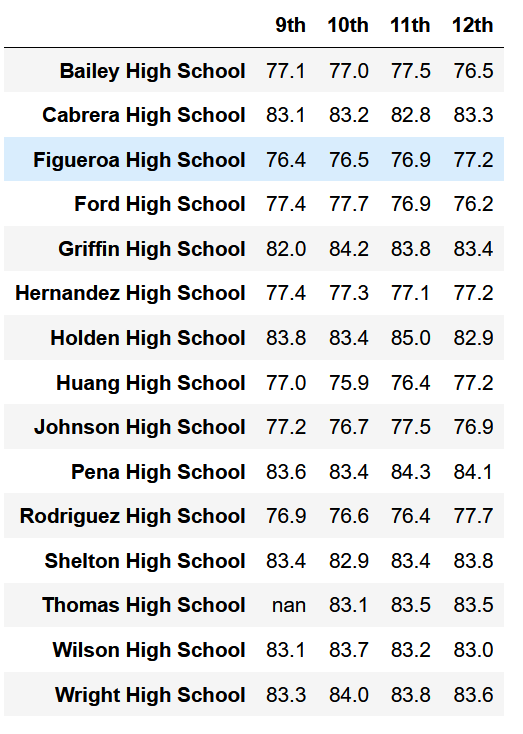
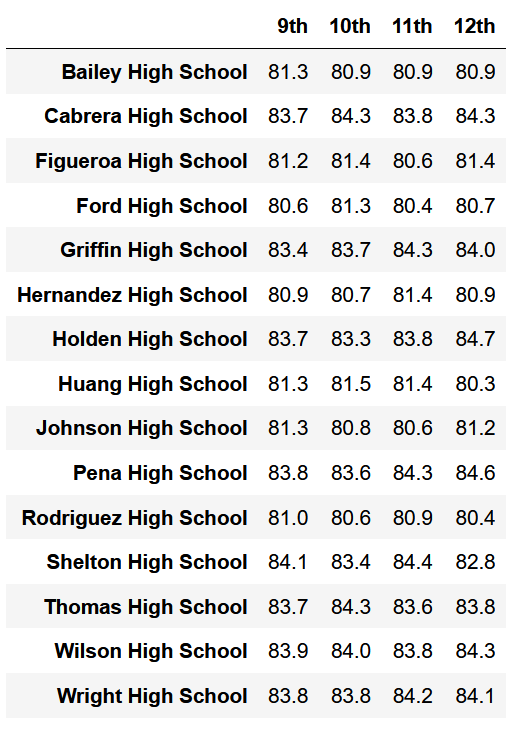
Updated Readme ready to submit

diff --git a/README.md b/README.md
@@ -1,79 +1,97 @@
 # School District Analysis
 
 ## Project Overview
-The purpose of this project was to perform a new analyzis of the School District and review the overall results to see the impact of removing data from a specific grade for a specific high school.  The new analysis data was kept intact except that the 9th grade reading and math scores at the Thomas High School were marked with NaN so they are not taken into account on the new analysis.
+The purpose of this project was to perform a new analysis of the School District dataset and compare the overall results to observe the potential impact of removing data.  The new analysis data was kept intact except that the 9th grade reading and math scores at the Thomas High School were marked with _"NaN"_ therefore that data/scores were not taken into account on the new analysis.
 
 ## Results
-
+Below are the results for the data comparison between the original results and the new results.
 
 ### District Summary:
-There was no significant affect to the overall district summary as shown below for the original summary and the new one:
+There was no significant effect to the overall district summary as shown below for the original summary and the new one:
 
 #### Original District Summary Overview:
-<image src="./analysis/images/District_Summary_Overview_original.png">
+- <image src="./analysis/images/District_Summary_Overview_original.png">
 
 #### Reanalyzed District Summary Overview:
-<image src="./analysis/images/District_Summary_Overview_Reanalyzed.png">
+- <image src="./analysis/images/District_Summary_Overview_Reanalyzed.png">
+
 
 ### School Summary
-There was no significant affect to the overall school summary as shown below, only the Thomas High School has a very minium change, but not signficiant.
+There was no significant affect to the overall school summary as shown below, only the Thomas High School has a very minimum change, but not significant to conclude that would have had a negative effect.
 
 #### Original School Summary Overview:
-<image src="./analysis/images/Per_School_Summary_Overview_original.png">
+- <image src="./analysis/images/Per_School_Summary_Overview_original.png">
 
 #### Reanalyzed School Summary Overview:
-<image src="./analysis/images/Per_School_Summary_Overview_Reanalyzed.png">
+- <image src="./analysis/images/Per_School_Summary_Overview_Reanalyzed.png">
+
 
 ### Low and High Performing Schools Summary
-It can be concluded that replacing the ninth grader's math and reading scores had no affect in Thomas High School's performance relative to the other schools.
+Below are the results for the bottom 5 and top 5 performing schools.  It can be concluded that removing the ninth grader's math and reading scores had no effect in Thomas High School's performance relative to the other schools.  The low and high performing schools remained the same, hence this also did not affect other schools from the original results.
 
 #### Original Bottom 5 Overview:
-<image src="./analysis/images/Bottom5_LowPerformingSchools_original.png">
+- <image src="./analysis/images/Bottom5_LowPerformingSchools_original.png">
 
 #### Reanalyzed Bottom 5 Overview:
-<image src="./analysis/images/Bottom5_LowPerformingSchools_Reanalyzed.png">
+- <image src="./analysis/images/Bottom5_LowPerformingSchools_Reanalyzed.png">
 
 #### Original Top 5 Overview:
-<image src="./analysis/images/Top5_HighPerformingSchools_original.png">
+- <image src="./analysis/images/Top5_HighPerformingSchools_original.png">
 
 #### Reanalyzed Top 5 Overview:
-<image src="./analysis/images/Top5_HighPerformingSchools_Reanalyzed.png">
+- <image src="./analysis/images/Top5_HighPerformingSchools_Reanalyzed.png">
+
 
 ### Math and reading scores by grade
+Below are the results for math and reading score by grade from the original analysis and the new analysis.  The only difference is the math and reading scores for Thomas High School, which were marked as _"nan"_ so the scores would not be taken into account when performing the new analysis.
+
 #### Original Math and reading scores by grade Overview:
-<image src="./analysis/images/MathScoresbyGrade_original.png">
-<image src="./analysis/images/ReadingScoresbyGrade_original.png">
+Original Math scores overview:
+- <image src="./analysis/images/MathScoresbyGrade_original.png">
+
+Original Reading scores overview:
+- <image src="./analysis/images/ReadingScoresbyGrade_original.png">
 
 #### Reanalyzed Math and reading scores by grade Overview:
-<image src="./analysis/images/MathScoresbyGrade_Reanalyzed.png">
-<image src="./analysis/images/ReadingScoresbyGrade_Reanalyzed.png">
+Reanalyzed Math scores overview:
+- <image src="./analysis/images/MathScoresbyGrade_Reanalyzed.png">
+
+Reanalyzed Reading scores overview:
+- <image src="./analysis/images/ReadingScoresbyGrade_Reanalyzed.png">
+
 
 ### Scores by school spending
+As shown below, there was no effect to the scores by school spending:
+
 #### Original Scores by school spending Overview:
-<image src="./analysis/images/ScoresbySchoolSpending_original.png">
+- <image src="./analysis/images/ScoresbySchoolSpending_original.png">
 
 #### Reanalyzed Scores by school spending Overview:
-<image src="./analysis/images/ScoresbySchoolSpending_Reanalyzed.png">
+- <image src="./analysis/images/ScoresbySchoolSpending_Reanalyzed.png">
+
 
 ### Scores by school size
+As shown below, there was no effect to the scores by school size:
+
 #### Original Scores by school size Overview:
-<image src="./analysis/images/ScoresbySchoolSize_original.png">
+- <image src="./analysis/images/ScoresbySchoolSize_original.png">
 
 #### Reanalyzed Scores by school size Overview:
-<image src="./analysis/images/ScoresbySchoolSize_Reanalyzed.png">
+- <image src="./analysis/images/ScoresbySchoolSize_Reanalyzed.png">
+
 
 ### Scores by school type
+As shown below, there was no effect to the scores by school type:
 
 #### Original Scores by school type Overview:
-<image src="./analysis/images/ScoresbySchoolType_original.png">
+- <image src="./analysis/images/ScoresbySchoolType_original.png">
 
 #### Reanalyzed Scores by school type Overview:
-<image src="./analysis/images/ScoresbySchoolType_Reanalyzed.png">
+- <image src="./analysis/images/ScoresbySchoolType_Reanalyzed.png">
 
 
 
 ## Summary
-
-Summarize four changes in the updated school district analysis after reading and math scores for the ninth grade at Thomas High School have been replaced with NaNs.
+In summary, although removing or adding data can be thought to skew results, in this case our analyzes confirms that there was no significant impact to Thomas High School, other schools or the district as a whole.  One possible reason for the minimum to no impact is due to the large amount of data analyzed.  We can see a very minimum change to the overall results for Thomas High School, but it is not significant to say have a concerning impact.  For example, the original **Average Math Score** was **83.418349%** and the new score is: **83.350937%**.  The original **Average Reading Score** was **83.848930%** and the new score is: **83.896082%**.  The **% Passing Math** was **93.272171%** and the new one is: **93.185690%**.  The original **% Passing Reading** was **97.308869%** and the new one is: **97.018739%**.  Finally, the **% Overall Passing** was: **90.948012%** and the new one is: **90.630324%**.
 
 
